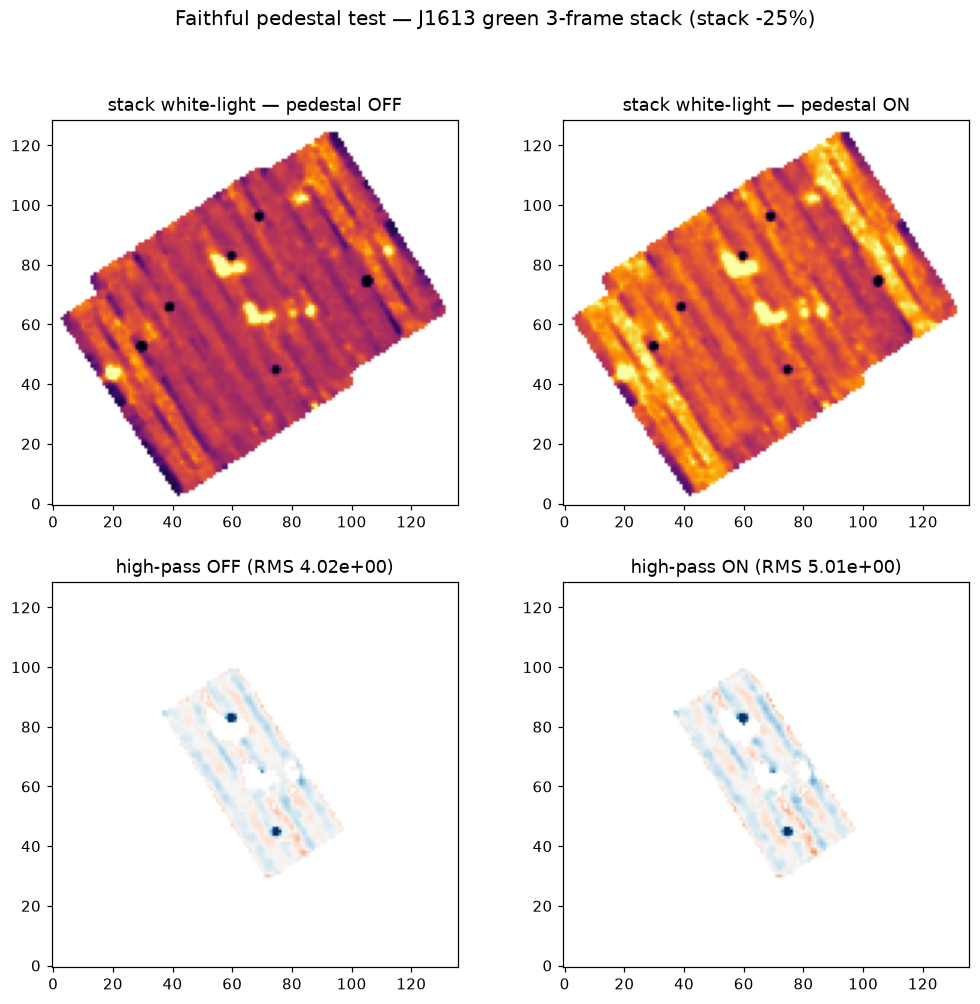
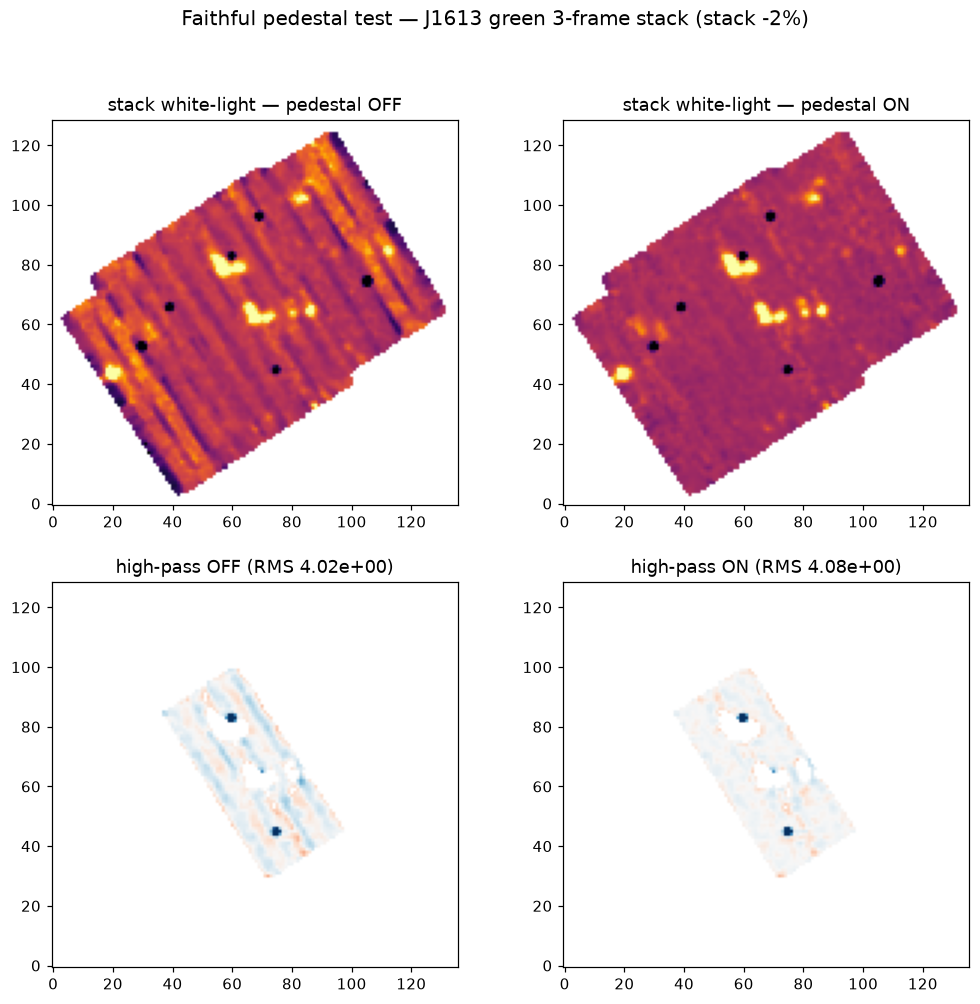
Sky: floor origin RESOLVED — through-fibre 2D illumination on the IFU plane
Elimination chain (J1613 green): (1) NOT detector 2D scattered light — inter-trace gap background is a flat ~5 ADU/px veil, zero correlation with the fibre floor after removing a tiny local-flux skirt (RS's detector-halo question answered directly on the bias-corrected frames); (2) NOT OH wing/LSF redistribution — floor persists at 70-90% strength >40px from any line; mixed-sign width correlations; (3) chromatic throughput real (+-8% per-fibre t_blue/t_red, twilight doesn't track it) but secondary. Conclusion: genuine continuum on the traces but not in the gaps = light coming DOWN THE FIBRES — a smooth diffuse illumination pattern across the IFU/fore-optics plane (generalises the old 2B root cause; mildly QSO-concentrated). Benchside = IFU-row block -> smooth per-camera along-slit arch -> sky striping. Correct model: a 2D scattered-light correction in IFU coordinates; the slit pedestal is its per-camera 1D sampling. Faithful slit-pedestal: per-frame striping +21% (7.07->5.58); stack verdict needs registered WCS; open: robustify fit (one 5e3 outlier), registered stacks, single 2D IFU-surface fit across cameras.

diff --git a/llamas_pyjamas/Sky/diagnosis/gap_scatter_test.py b/llamas_pyjamas/Sky/diagnosis/gap_scatter_test.py
@@ -1,0 +1,90 @@
+"""Gap-flux decomposition (green 1A): gap = a*local_fibre_flux (scattering skirt, flat-absorbed)
++ dome(Y) (true additive halo). Regress out the skirt; does the residual dome match the fibre floor?"""
+import sys; sys.path.insert(0, '/Users/simcoe/GIT/llamas-pyjamas/.claude/worktrees/exposure-stacking')
+import glob, pickle, warnings; warnings.filterwarnings('ignore')
+import numpy as np
+from astropy.io import fits
+from scipy.ndimage import median_filter
+import matplotlib; matplotlib.use('Agg'); matplotlib.rcParams['text.usetex']=False
+import matplotlib.pyplot as plt
+ND='/Users/simcoe/data/LLAMAS/may26/ut20260516_17'
+OUT=f'{ND}/gap_scatter_qa.png'
+
+mef=f'{ND}/reduced_ped_off/bias_corrected/LLAMAS_2026-05-17_02-49-56.7_SCI22_mef_bias_corrected.fits'
+img=None
+with fits.open(mef) as h:
+    for hd in h[1:]:
+        hdr=hd.header
+        if (str(hdr.get('COLOR','')).lower()=='green' and str(hdr.get('BENCH','')).strip()=='1'
+                and str(hdr.get('SIDE','')).strip().upper()=='A'):
+            img=np.asarray(hd.data,float); break
+with open(f'{ND}/reduced_new/traces/LLAMAS_green_1_A_traces.pkl','rb') as fh:
+    traces=np.asarray(getattr(pickle.load(fh),'traces'),float)
+nfib,ncol=traces.shape
+
+xs=np.arange(0,ncol,2)
+trI=np.clip(np.round(traces[:,xs]).astype(int),0,img.shape[0]-1)
+spec=np.nanmedian(img[trI,xs[None,:]],axis=0)
+locol=spec<np.nanpercentile(spec,30)
+
+def trimmed(v):
+    v=v[np.isfinite(v)]
+    if v.size<10: return np.nan
+    lo,hi=np.nanpercentile(v,[10,90]); w=v[(v>=lo)&(v<=hi)]
+    return float(np.mean(w)) if w.size else np.nan
+
+gap=np.full((nfib-1,xs.size),np.nan)
+for k,x in enumerate(xs):
+    y=traces[:,x]
+    for p in range(nfib-1):
+        if not (np.isfinite(y[p]) and np.isfinite(y[p+1])): continue
+        if y[p+1]-y[p]<6.0: continue
+        ymid=int(round(0.5*(y[p]+y[p+1])))
+        if 0<ymid<img.shape[0]: gap[p,k]=img[ymid,x]
+g=np.array([trimmed(gap[p,locol]) for p in range(nfib-1)])
+
+# per-fibre between-line continuum + floor from the pkl (1A)
+from llamas_pyjamas.Extract.extractLlamas import ExtractLlamas
+pkl=sorted(glob.glob(f'{ND}/reduced_ped_off/extractions/LLAMAS_2026-05-17_02-49-56.7*sky1d_extractions.pkl'))[0]
+d=ExtractLlamas.loadExtraction(pkl)
+for ext,md in zip(d['extractions'],d['metadata']):
+    if str(md.get('channel','')).lower()=='green' and str(md['bench'])=='1' and str(md['side']).upper()=='A':
+        C=np.asarray(ext.counts,float); S=np.asarray(ext.sky,float)
+        nf=C.shape[0]; f1a=np.full(nf,np.nan); cont=np.full(nf,np.nan)
+        for i in range(nf):
+            fin=np.isfinite(S[i])&np.isfinite(C[i])
+            if fin.sum()<200: continue
+            lo=fin&(S[i]<np.nanpercentile(S[i][fin],30))
+            if lo.sum()>50:
+                f1a[i]=np.nanmedian((C[i]-S[i])[lo]); cont[i]=np.nanmedian(C[i][lo])
+        break
+pf=0.5*(f1a[:-1]+f1a[1:]); pc=0.5*(cont[:-1]+cont[1:])
+m=np.isfinite(g)&np.isfinite(pf)&np.isfinite(pc)
+# 1. skirt regression: gap ~ a*localflux + b
+A=np.column_stack([pc[m],np.ones(m.sum())])
+coef,*_=np.linalg.lstsq(A,g[m],rcond=None)
+skirt=A@coef; dome=g[m]-skirt
+print(f"skirt fit: gap = {coef[0]:.4f} * local_fibre_flux + {coef[1]:+.2f}   "
+      f"(skirt explains {1-np.nanstd(dome)/np.nanstd(g[m]):.0%} of gap variance)")
+# 2. residual dome vs floor
+fm=pf[m]-np.nanmedian(pf[m]); dm=dome-np.nanmedian(dome)
+# smooth both along slit to beat 1-ADU quantization noise
+ds=median_filter(dm,size=21,mode='nearest'); fs=median_filter(fm,size=21,mode='nearest')
+r_raw=np.corrcoef(dm,fm)[0,1]; r_sm=np.corrcoef(ds,fs)[0,1]
+sl=float(np.sum(ds*fs)/np.sum(ds*ds))
+print(f"dome(Y) vs fibre floor: corr raw={r_raw:+.3f}  smoothed={r_sm:+.3f}  slope(sm)={sl:.2f} "
+      f"(2D-halo prediction ~5 px)")
+fig,ax=plt.subplots(1,3,figsize=(15,4.4))
+ax[0].plot(pc[m],g[m],'.',ms=3); ax[0].plot(pc[m],skirt,'r.',ms=2)
+ax[0].set_xlabel('local fibre continuum (counts)'); ax[0].set_ylabel('gap flux (ADU/px)')
+ax[0].set_title(f'skirt: gap ~ {coef[0]:.3f}*flux {coef[1]:+.1f}')
+idx=np.where(m)[0]
+ax[1].plot(idx,fs,'.',ms=3,label='fibre floor (smoothed)')
+ax[1].plot(idx,ds*max(sl,1e-9) if sl>0 else ds,'.',ms=3,label='gap dome (scaled)')
+ax[1].axhline(0,color='k',lw=.5); ax[1].legend(fontsize=8); ax[1].set_xlabel('slit position')
+ax[1].set_title(f'dome vs floor (corr={r_sm:+.2f})')
+ax[2].scatter(ds,fs,s=6,alpha=.4); ax[2].set_xlabel('gap dome (ADU/px, smoothed)')
+ax[2].set_ylabel('fibre floor (counts, smoothed)'); ax[2].set_title('per slit position')
+fig.suptitle('Gap-flux decomposition: local skirt + dome(Y) — does the dome match the floor? (green 1A)')
+fig.savefig(OUT,dpi=110,bbox_inches='tight',facecolor='white');plt.close(fig)
+print("wrote",OUT)

diff --git a/llamas_pyjamas/Sky/diagnosis/floor_origin_tests.py b/llamas_pyjamas/Sky/diagnosis/floor_origin_tests.py
@@ -1,0 +1,83 @@
+"""Two discriminators for the along-slit floor origin (J1613 green, ped_off pkl):
+A) floor_i vs MEASURED OH-line width per fibre (second moment on the xshift grid) — LSF-width
+   wing-redistribution predicts a strong smoothed correlation along the slit.
+B) floor amplitude vs DISTANCE from the nearest sky line — wing contamination decays with
+   distance; a true scattered/veil continuum does not."""
+import sys; sys.path.insert(0, '/Users/simcoe/GIT/llamas-pyjamas/.claude/worktrees/exposure-stacking')
+import glob, warnings; warnings.filterwarnings('ignore')
+import numpy as np
+from scipy.ndimage import median_filter, distance_transform_edt
+import matplotlib; matplotlib.use('Agg'); matplotlib.rcParams['text.usetex']=False
+import matplotlib.pyplot as plt
+ND='/Users/simcoe/data/LLAMAS/may26/ut20260516_17'
+OUT=f'{ND}/lsf_floor_qa.png'
+from llamas_pyjamas.Extract.extractLlamas import ExtractLlamas
+
+pkl=sorted(glob.glob(f'{ND}/reduced_ped_off/extractions/LLAMAS_2026-05-17_02-49-56.7*sky1d_extractions.pkl'))[0]
+d=ExtractLlamas.loadExtraction(pkl)
+Ns=[2,5,10,20,40]
+print(f"{'cam':>4} {'nblank':>6} {'corr(floor,width)sm':>19}  arch-std vs line-distance N={Ns}")
+res={}
+for ext,md in zip(d['extractions'],d['metadata']):
+    if str(md.get('channel','')).lower()!='green': continue
+    cam=f"{md['bench']}{md['side']}"
+    C=np.asarray(ext.counts,float); S=np.asarray(ext.sky,float); X=np.asarray(ext.xshift,float)
+    nf=C.shape[0]
+    wl=np.nanmedian(C,axis=1)
+    good=np.isfinite(wl)&(wl>0)&np.any(np.isfinite(S)&(S!=0),axis=1)
+    blank=good&(wl<=np.nanpercentile(wl[good],60))
+    j0=np.where(blank)[0][int(blank.sum()//2)]
+    s0=np.nan_to_num(S[j0]); x0g=X[j0]
+    # 3 strongest isolated line positions (xshift units) from the model
+    cand=np.argsort(s0)[::-1]; picks=[]
+    for c in cand:
+        if len(picks)>=3: break
+        if all(abs(c-p)>40 for p in picks) and 60<c<s0.size-60: picks.append(c)
+    line_x=[x0g[c] for c in picks]
+    # A) per-fibre line width (flux-weighted 2nd moment over +-6 px, continuum ring 8-12 px)
+    width=np.full(nf,np.nan); floor=np.full(nf,np.nan)
+    fldist={N: np.full(nf,np.nan) for N in Ns}
+    dx=np.arange(-12,13,1.0)
+    for i in np.where(blank)[0]:
+        xi=X[i]; ci=np.nan_to_num(C[i]); si=np.nan_to_num(S[i])
+        ok=np.isfinite(C[i])&np.isfinite(S[i])
+        if ok.sum()<300: continue
+        ws=[]; wgt=[]
+        for lx in line_x:
+            prof=np.interp(lx+dx, xi, ci)
+            cont=np.median(prof[np.abs(dx)>=8])
+            p=np.clip(prof-cont,0,None)
+            core=np.abs(dx)<=6
+            F=p[core].sum()
+            if F<50: continue
+            mu=(p[core]*dx[core]).sum()/F
+            ws.append(np.sqrt(max((p[core]*(dx[core]-mu)**2).sum()/F,1e-3))); wgt.append(F)
+        if ws: width[i]=np.average(ws,weights=wgt)
+        # B) floor vs distance from lines (line mask from the fibre's own sky model)
+        med=np.nanmedian(si[ok]) if np.isfinite(si[ok]).any() else 0
+        linemask=si>max(1.5*med,np.nanpercentile(si[ok],70))
+        dist=distance_transform_edt(~linemask)
+        r=ci-si
+        for N in Ns:
+            m=ok&(dist>N)
+            if m.sum()>40: fldist[N][i]=np.nanmedian(r[m])
+        m0=ok&(si<np.nanpercentile(si[ok],30))
+        if m0.sum()>50: floor[i]=np.nanmedian(r[m0])
+    m=blank&np.isfinite(width)&np.isfinite(floor)
+    if m.sum()<30: continue
+    fs=median_filter(floor[m],size=15,mode='nearest'); wsm=median_filter(width[m],size=15,mode='nearest')
+    r_sm=np.corrcoef(fs,wsm)[0,1]
+    stds=[float(np.nanstd(fldist[N][m])) for N in Ns]
+    print(f"{cam:>4} {int(m.sum()):>6} {r_sm:>+19.2f}  {['%.2f'%s for s in stds]}")
+    res[cam]=dict(idx=np.where(m)[0],fs=fs,ws=wsm,stds=stds)
+show=[b for b in ('1A','2A','3B','4B') if b in res]
+fig,ax=plt.subplots(2,len(show),figsize=(4.4*len(show),8),squeeze=False)
+for j,b in enumerate(show):
+    R=res[b]; a=ax[0,j]; a2=a.twinx()
+    a.plot(R['fs'],'.',ms=3,color='C0'); a2.plot(R['ws'],'.',ms=3,color='C1')
+    a.set_title(f"{b}: floor(C0) vs line width(C1), smoothed")
+    ax[1,j].plot(Ns,R['stds'],'o-'); ax[1,j].set_xlabel('min px from any line'); ax[1,j].set_ylabel('arch std')
+    ax[1,j].set_title(f'{b}: floor amplitude vs line distance')
+fig.suptitle('Floor origin: LSF width tracking (top) and line-wing decay (bottom) — J1613 green')
+fig.savefig(OUT,dpi=110,bbox_inches='tight',facecolor='white');plt.close(fig)
+print("wrote",OUT)

diff --git a/llamas_pyjamas/Sky/DESIGN.md b/llamas_pyjamas/Sky/DESIGN.md
@@ -252,6 +252,39 @@ structure). **The fix needs per-fibre granularity in the flat/extraction domain,
 nothing merged. Next direction (needs decision): a per-fibre-along-slit flat/throughput correction, or
 investigate why the fibre flat leaves the per-fibre benchside banding in COUNTS.
 
+### Floor origin — RESOLVED: through-fibre 2D illumination on the IFU plane
+
+Elimination chain on J1613 green (scripts: `gap_scatter_test.py`, `floor_origin_tests.py`,
+`chromaticity_test.py`; figures `gap_scatter_qa.png`, `lsf_floor_qa.png`, `chromaticity_qa.png`):
+
+1. **Not detector-level 2D scattered light**: the inter-trace gap background is a small (~5 ADU/px),
+   essentially FLAT veil along the slit — a local-flux "skirt" explains only 2 % of its variance and
+   the residual dome has zero correlation with the fibre floor (corr −0.01). A flat veil is absorbed
+   harmlessly by the pooled sky model.
+2. **Not OH line-wing / LSF redistribution**: the floor persists at 70–90 % strength >40 px from any
+   sky line (wings die by ~10 px); floor-vs-measured-line-width correlations have mixed signs.
+3. **Not achromatic-throughput mismatch** (secondary only): per-fibre t_blue/t_red from the sky's own
+   OH lines scatters ±8 % (RS's chromaticity hypothesis CONFIRMED — the scalar `relative_throughput`
+   assumption is violated), but the twilight flat's chromaticity does not track it (corr ≈ 0 to −0.4),
+   and this component explains only ~20 % of the banding in half the cameras (~0 in 2A/2B).
+
+**Conclusion:** the floor is genuine continuum that is on the traces but not in the gaps — light coming
+**down the fibres**: a smooth diffuse illumination pattern across the **IFU / fore-optics plane**
+(consistent with the original 2B root cause, now generalised to all cameras at lower amplitude; mildly
+concentrated toward the bright QSO pair). Each benchside = a block of IFU rows → the smooth IFU pattern
+becomes the smooth per-camera along-slit arch/tilt/step → rotates into the sky striping. So the correct
+mental model is a **2D scattered-light correction in IFU coordinates** — the slit pedestal is its
+per-camera 1D sampling.
+
+**Faithful slit-pedestal result** (`sky_pedestal_scope=slit`, real pipeline, pre-flat): per-frame
+striping 7.07 → 5.58 (**+21 %**; offline blank-fibre metric predicted 60 % — the white-light metric
+also carries noise + the jagged 2A/2B component). Stack comparison inconclusive on the unregistered
+test RSS. Open engineering: (a) robustify the local-linear fit (one `max|ΔSKY|~5e3` outlier — no
+sigma-clip yet); (b) register the test frames for an honest stack verdict; (c) the natural upgrade:
+fit ONE smooth 2D surface on the IFU (x, y) to all cameras' blank-fibre floors simultaneously
+(regularises camera edges, fewer dof) instead of 8 independent 1D profiles; (d) sky-line-derived
+chromatic throughput (future, logged).
+
 ### Deferred beyond the striping fix
 - New selection providers: external broadband-image (e.g. LSST) masks, manual / GUI-defined masks.
 - Full offset/blank-field sky, including multi-frame combination.